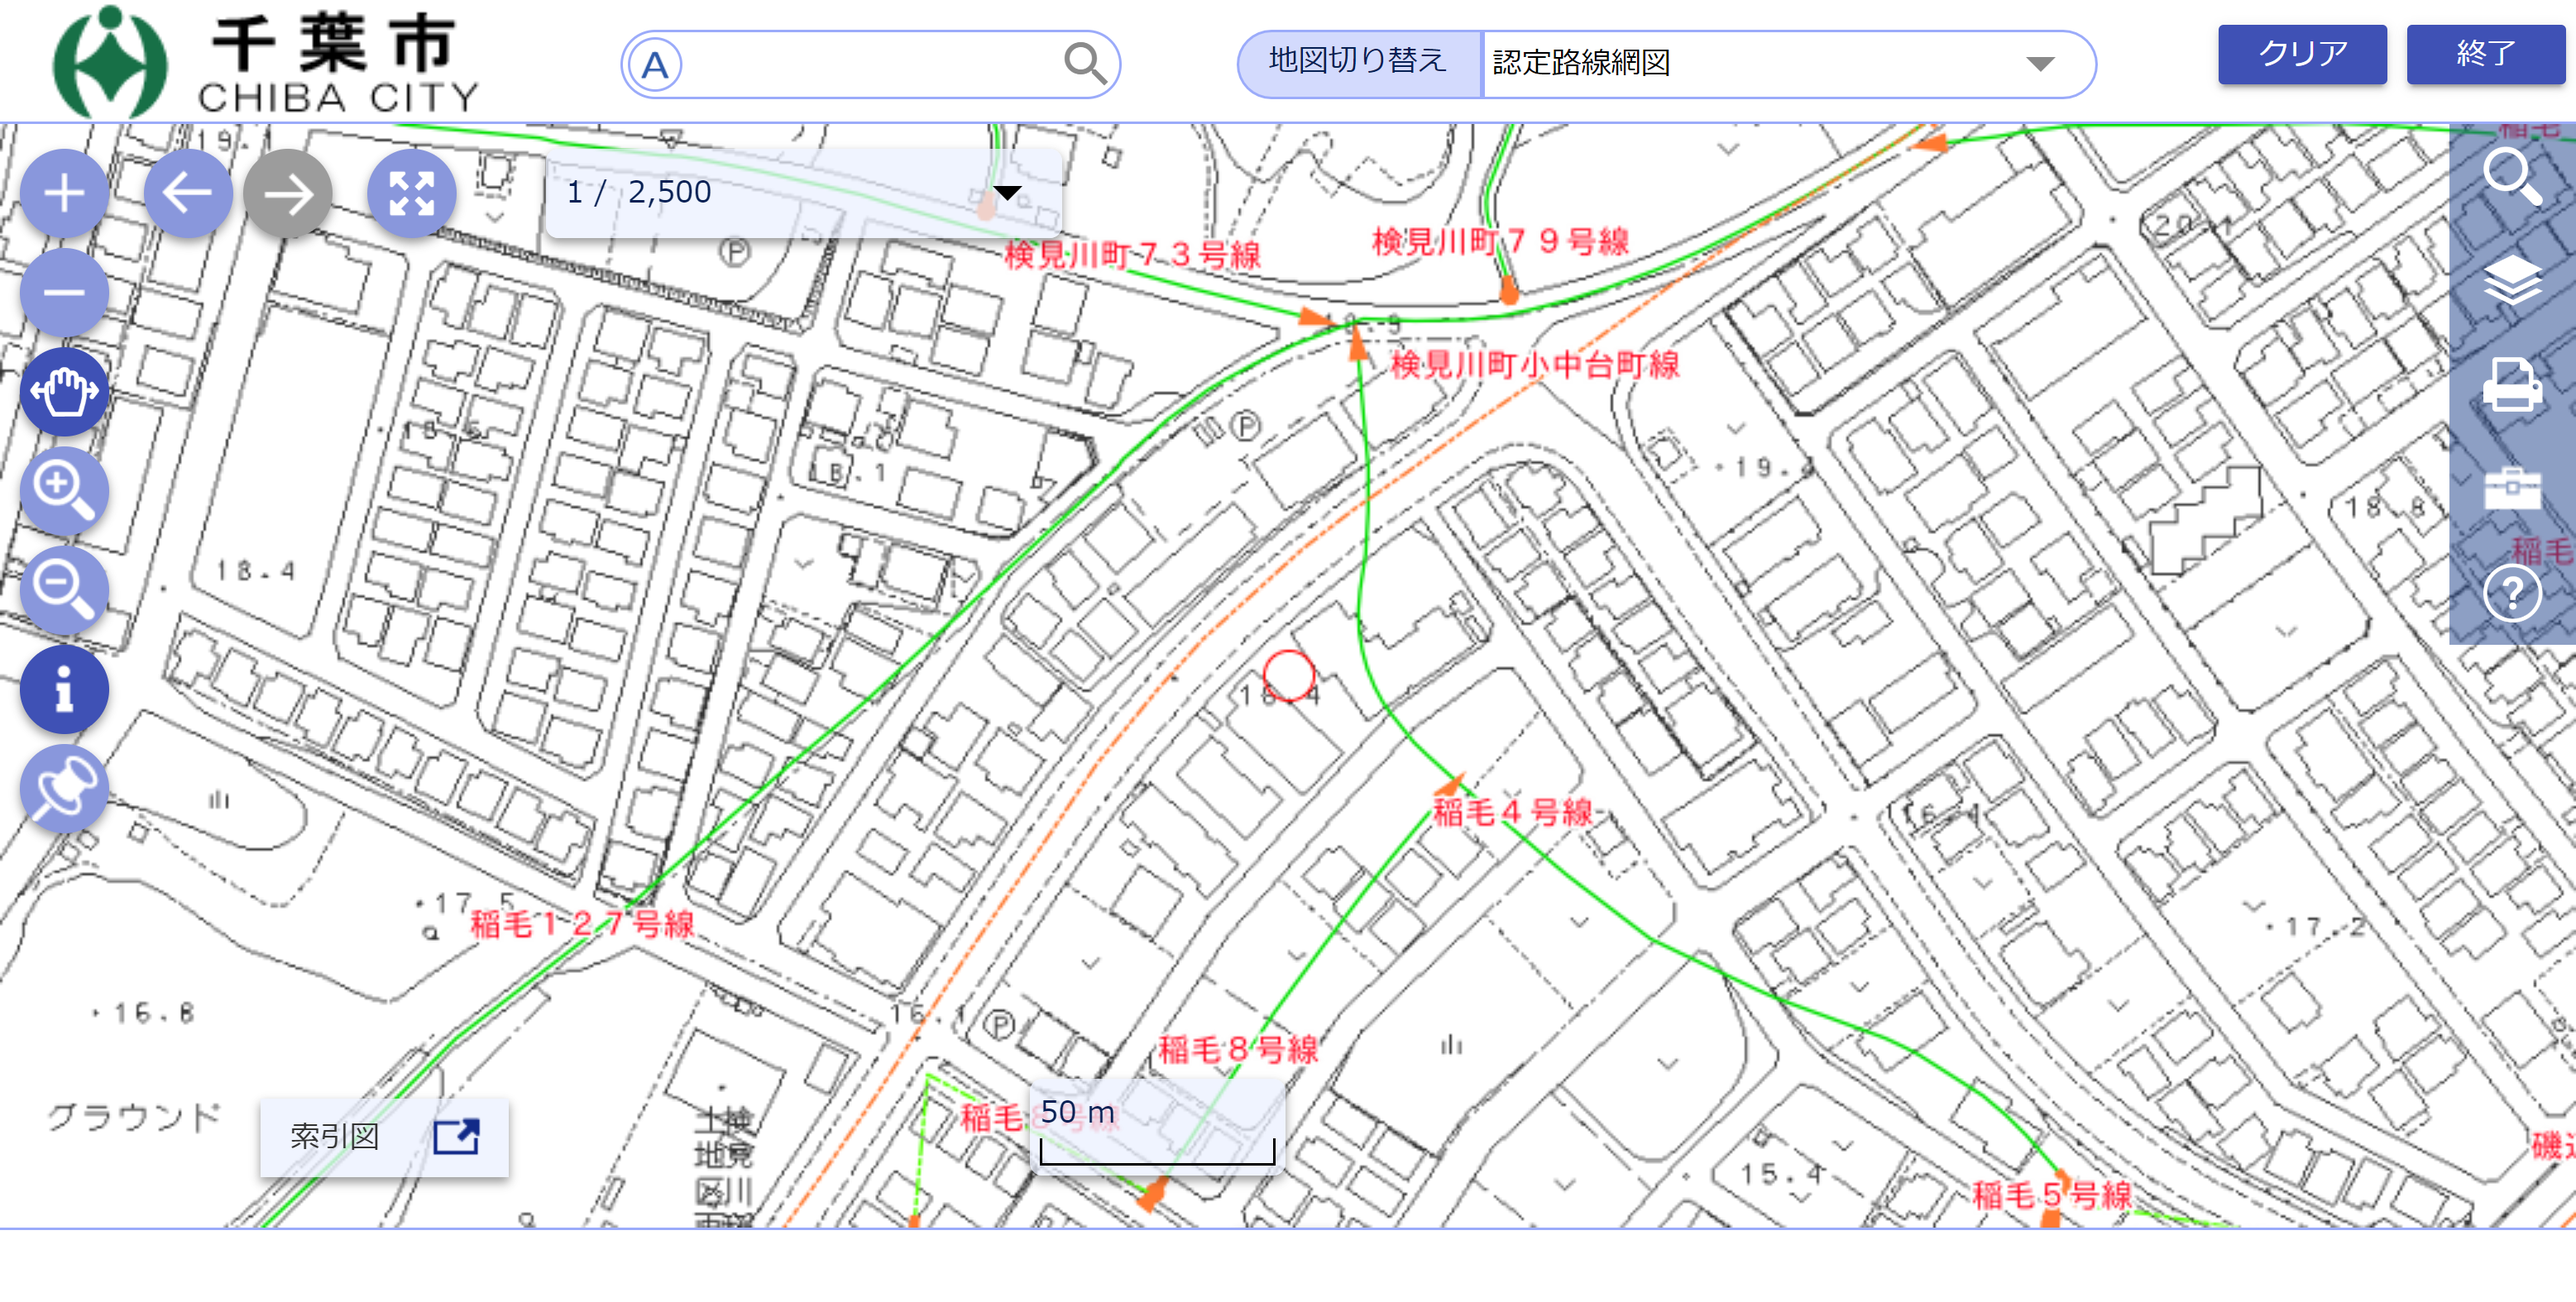
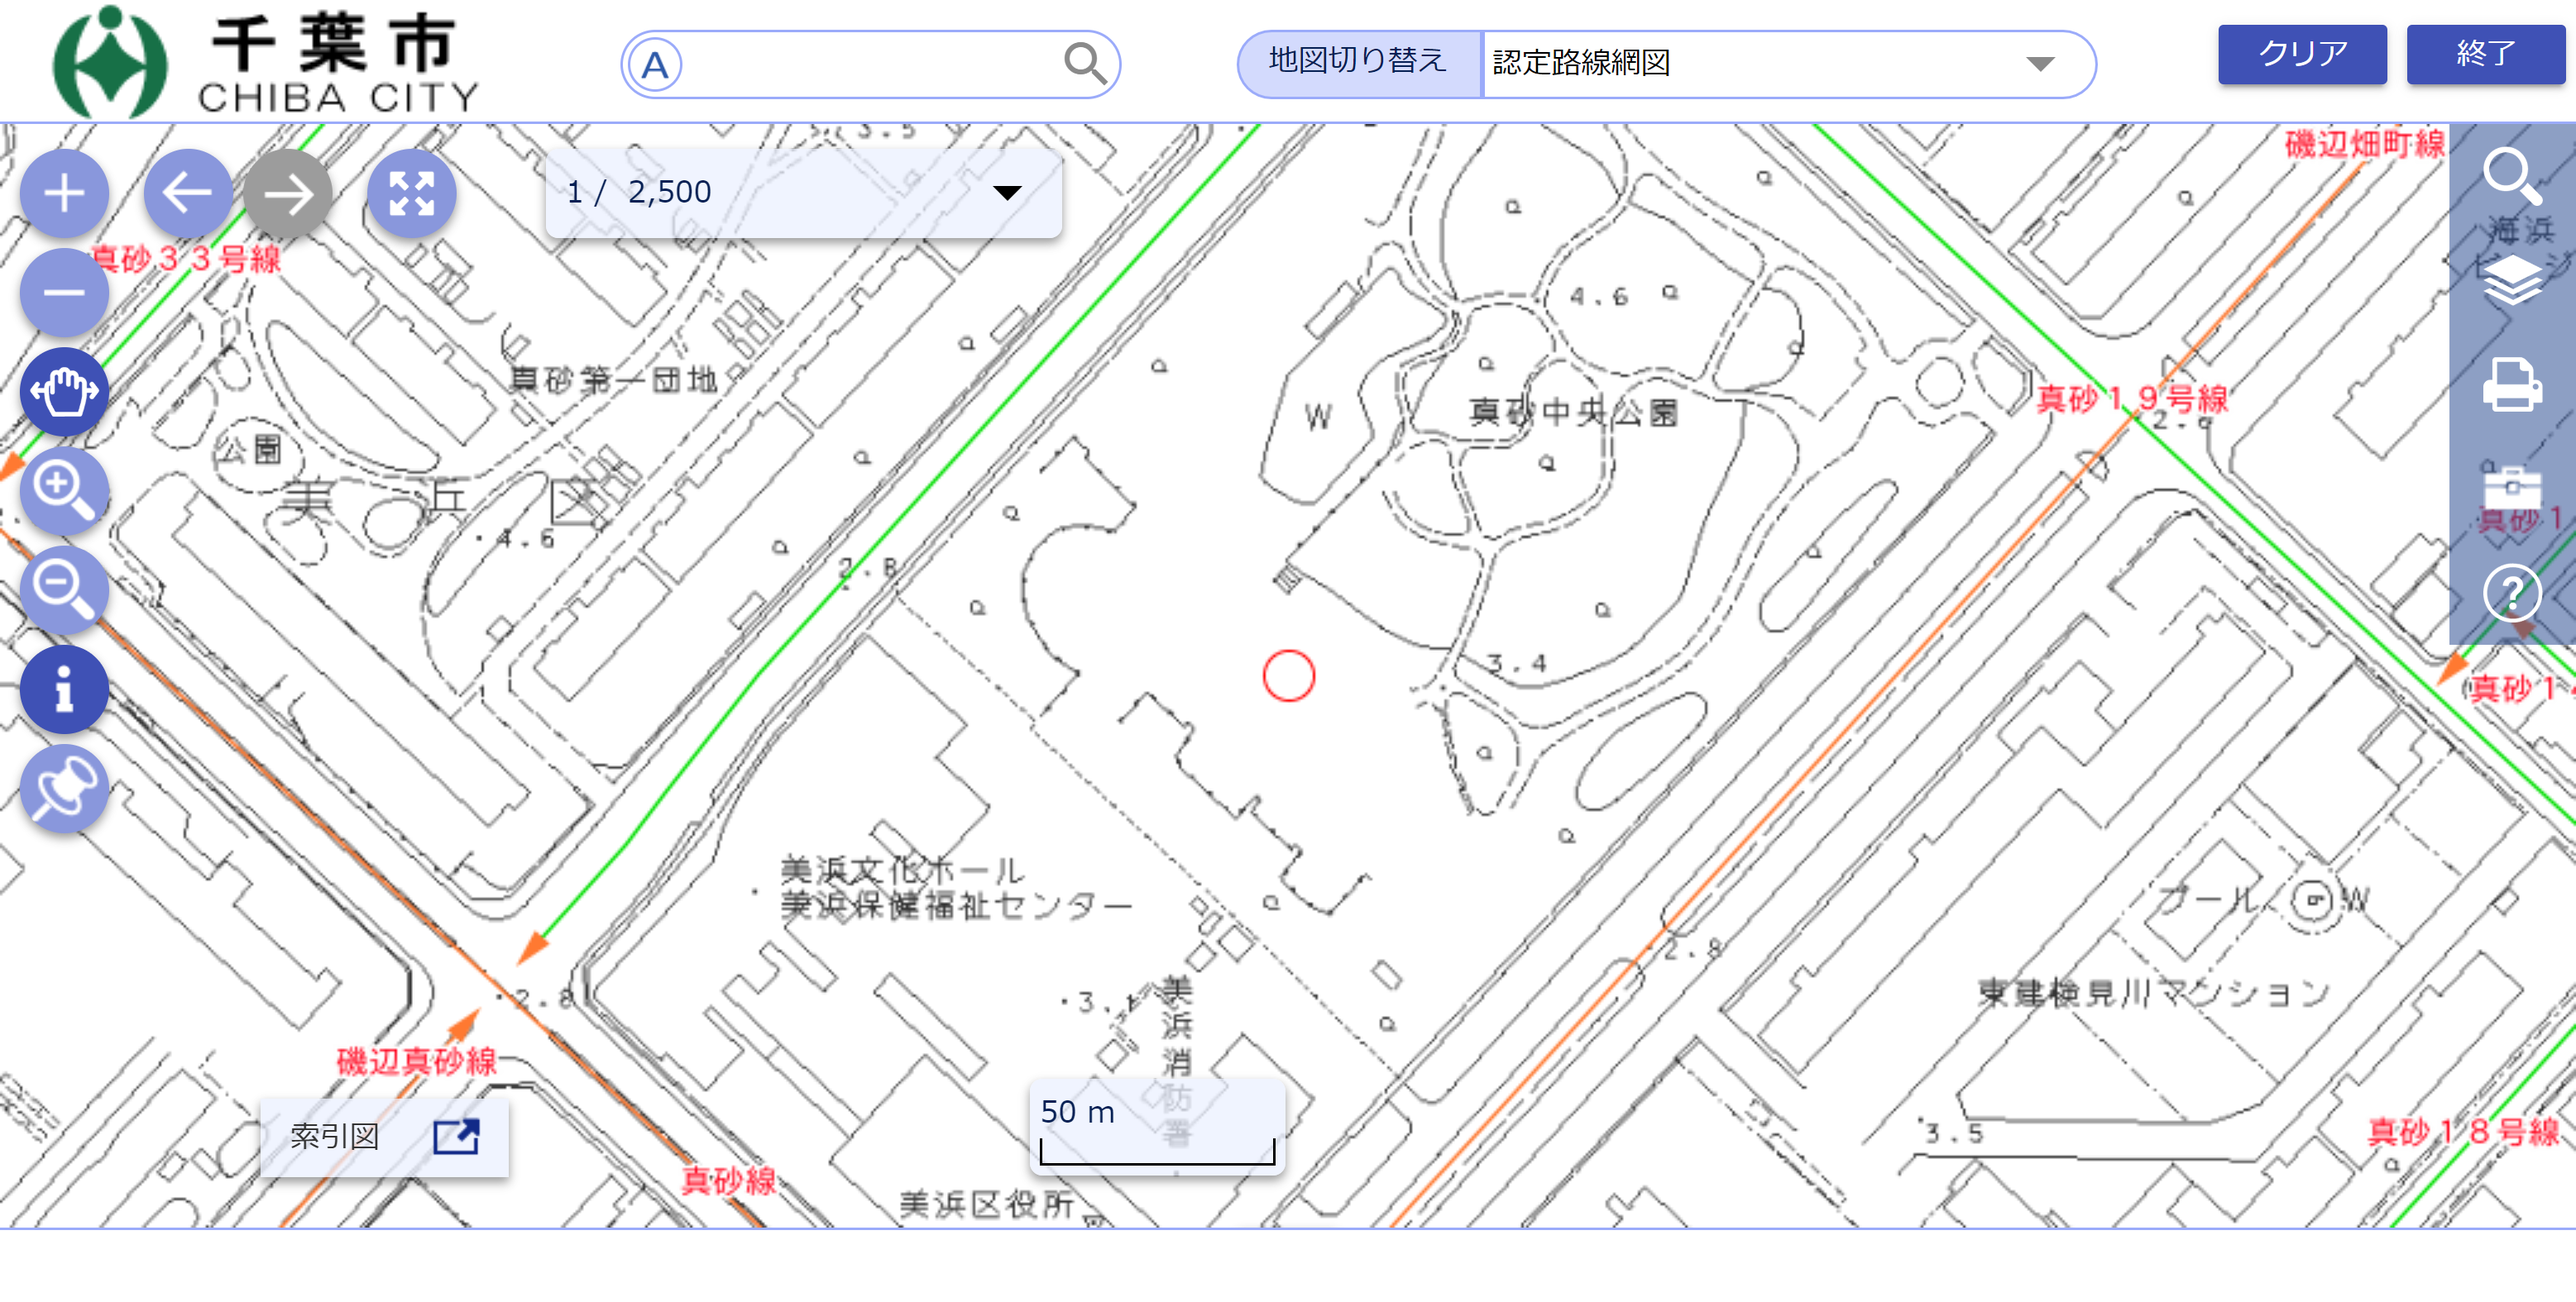
B調整

Changed region(s): [[0.0, 0.0933, 1.0, 0.9644]]

diff --git a/B4.py b/B4.py
@@ -28,19 +28,23 @@ def saitama_doro(address_list):
     if soup.find('error'):
         err = 1
     latitude = soup.find('lat').string
+    latitude = latitude.replace(',', '')
     longitude = soup.find('lng').string
+    longitude = longitude.replace(',', '')
 
     soup = BeautifulSoup(xml.content, 'xml')
     found = soup.find('google_maps').string
-    
-    if found[-1] != '0' or found[-1] != '1' or found[-1] != '2' or found[-1] != '3' or found[-1] != '4' or found[-1] != '5' or found[-1] != '6' or found[-1] != '7' or found[-1] != '8' or found[-1] != '9':
+
+    if found[-1] != '０' and found[-1] != '１' and found[-1] != '２' and found[-1] != '３' and found[-1] != '４' and found[-1] != '５' and found[-1] != '６' and found[-1] != '７' and found[-1] != '８' and found[-1] != '９':
         err = 1
 
     """
     埼玉の道路を検索・スクショ
     """
-    doro_url = 'https://www.sonicweb-asp.jp/saitama_g/map?theme=th_31#scale=1000#pos=' + longitude + ',' + latitude
+    doro_url = 'https://www.sonicweb-asp.jp/saitama_g/map?theme=th_31#scale=5000&pos=' + longitude + ',' + latitude
     driver = webdriver.Chrome()
+
+    print(doro_url)
 
     driver.get(doro_url)
     time.sleep(5)
@@ -69,3 +73,5 @@ def saitama_doro(address_list):
 
     driver.save_screenshot(FILENAME)
     return(err)
+
+saitama_doro(["埼玉県さいたま市南区沼影1-20-1"])

diff --git a/B6.py b/B6.py
@@ -10,20 +10,24 @@ def yure(address):
     re_machi = r'区.*?\d'
     re_numbers = r'\D\d+'
 
-    ken = re.search(re_kenshi, address_han).group()
-    ku = re.search(re_ku, address_han).group()
-    ku = ku[1:]
-    machi = re.search(re_machi, address_han).group()
-    machi = machi[1:-1]
-    numbers = re.findall(re_numbers, address_han)
+    try:
+        ken = re.search(re_kenshi, address_han).group()
+        ku = re.search(re_ku, address_han).group()
+        ku = ku[1:]
+        machi = re.search(re_machi, address_han).group()
+        machi = machi[1:-1]
+        numbers = re.findall(re_numbers, address_han)
 
-    address_list = []
+        address_list = []
 
-    address_list.append(ken)
-    address_list.append(ku)
-    address_list.append(machi)
+        address_list.append(ken)
+        address_list.append(ku)
+        address_list.append(machi)
 
-    for i in numbers:
-        address_list.append(mojimoji.han_to_zen(i[1:]))
+        for i in numbers:
+            address_list.append(mojimoji.han_to_zen(i[1:]))
 
-    return(address_list)
+        return(address_list)
+    except:
+        err = 1
+        return(err)

diff --git a/B3.py b/B3.py
@@ -29,12 +29,14 @@ def saitama_gesui(address_list):
     if soup.find('error'):
         err = 1
     latitude = soup.find('lat').string
+    latitude = latitude.remove(',')
     longitude = soup.find('lng').string
+    longitude = longitude.remove(',')
 
     soup = BeautifulSoup(xml.content, 'xml')
     found = soup.find('google_maps').string
     
-    if found[-1] != '0' or found[-1] != '1' or found[-1] != '2' or found[-1] != '3' or found[-1] != '4' or found[-1] != '5' or found[-1] != '6' or found[-1] != '7' or found[-1] != '8' or found[-1] != '9':
+    if found[-1] != '０' and found[-1] != '１' and found[-1] != '２' and found[-1] != '３' and found[-1] != '４' and found[-1] != '５' and found[-1] != '６' and found[-1] != '７' and found[-1] != '８' and found[-1] != '９':
         err = 1
 
     """

diff --git a/main.py b/main.py
@@ -3,7 +3,7 @@ import B3
 import B4
 import B6
 
-address = "埼玉県さいたま市大宮区大門町６丁目５"
+address = "千葉県千葉市稲毛区稲毛３丁目７−３０"
 
 err = 0
 """
@@ -12,10 +12,10 @@ err = 1 : 住所が不適
 """
 
 address_list = B6.yure(address)
-if "千葉市" in address_list[0]:
+if address_list == 1:
+    err = 1
+elif "千葉市" in address_list[0]:
     err = B1.chiba(address_list)
 elif "さいたま市" in address_list[0]:
     err = B3.saitama_gesui(address_list)
     err = B4.saitama_doro(address_list)
-
-print(err)
